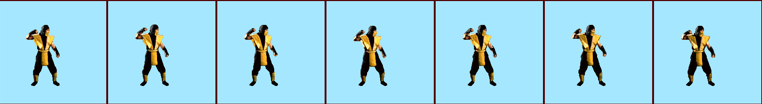
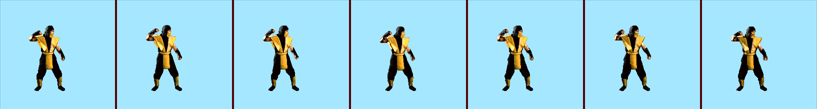
исправляю

diff --git a/js/core/Sprite.js b/js/core/Sprite.js
@@ -4,7 +4,9 @@ export class Sprite {
         frameRate = 1,
         frameWidth,
         gap = 0,
-        frameBuffer = 10
+        frameBuffer = 10,
+        chromaKey = { r: 165, g: 231, b: 255 },
+        threshold = 40,
     }) {
         this.image = new Image();
         this.image.src = imageSrc;
@@ -16,10 +18,45 @@ export class Sprite {
         this.elapsedFrames = 0;
         this.isLoaded = false;
         this.frameHeight = 0;
-
+        this.processedImage = new Image();
+        this.chromaKey = chromaKey;
+        this.threshold = threshold;
+        // Обработка изображения
         this.image.onload = () => {
-            this.isLoaded = true;
-            this.frameHeight = this.image.height;
+            const tempCanvas = document.createElement('canvas');
+            const tempCtx = tempCanvas.getContext('2d');
+            
+            tempCanvas.width = this.image.naturalWidth;
+            tempCanvas.height = this.image.naturalHeight;
+            
+            tempCtx.drawImage(this.image, 0, 0);
+            
+            if(this.chromaKey) {
+                const imageData = tempCtx.getImageData(0, 0, tempCanvas.width, tempCanvas.height);
+                const data = imageData.data;
+
+                for(let i = 0; i < data.length; i += 4) {
+                    const r = data[i];
+                    const g = data[i+1];
+                    const b = data[i+2];
+                    
+                    if(
+                        Math.abs(r - this.chromaKey.r) < this.threshold &&
+                        Math.abs(g - this.chromaKey.g) < this.threshold &&
+                        Math.abs(b - this.chromaKey.b) < this.threshold
+                    ) {
+                        data[i+3] = 0;
+                    }
+                }
+                tempCtx.putImageData(imageData, 0, 0);
+            }
+            
+            this.processedImage.onload = () => {
+                this.isLoaded = true;
+                this.frameHeight = this.processedImage.height;
+            };
+            
+            this.processedImage.src = tempCanvas.toDataURL();
         };
     }
 
@@ -32,23 +69,38 @@ export class Sprite {
         }
     }
 
-    draw(ctx, canvas) {
+    draw(ctx, x, y, flip = false) {
         if (!this.isLoaded) return;
 
         const sourceX = this.currentFrame * (this.frameWidth + this.gap);
-        const x = (canvas.width - this.frameWidth) / 2;
-        const y = (canvas.height - this.frameHeight) / 2;
-
-        ctx.drawImage(
-            this.image,
-            sourceX,
-            0,
-            this.frameWidth,
-            this.frameHeight,
-            x,
-            y,
-            this.frameWidth,
-            this.frameHeight
-        );
+        
+        ctx.save();
+        if (flip) {
+            ctx.scale(-1, 1);
+            ctx.drawImage(
+                this.processedImage,
+                sourceX,
+                0,
+                this.frameWidth,
+                this.frameHeight,
+                -x - this.frameWidth,
+                y,
+                this.frameWidth,
+                this.frameHeight
+            );
+        } else {
+            ctx.drawImage(
+                this.processedImage,
+                sourceX,
+                0,
+                this.frameWidth,
+                this.frameHeight,
+                x,
+                y,
+                this.frameWidth,
+                this.frameHeight
+            );
+        }
+        ctx.restore();
     }
 }

diff --git a/js/main.js b/js/main.js
@@ -1,25 +1,31 @@
-import { GameEngine } from './core/GameEngine.js'; // Убедитесь что путь правильный
-import { Sprite } from './core/Sprite.js';
+import { GameEngine } from './core/GameEngine.js';
+import { Fighter } from './core/Fighter.js';
 
 const gameEngine = new GameEngine();
 
-// Проверьте параметры вашего спрайта!
-const scorpionIdle = new Sprite({
+// Скорпион (справа)
+const scorpion = new Fighter({
+    position: { x: 600, y: 250 },
     imageSrc: './assets/characters/scorpion/idle.png',
     frameRate: 7,
-    frameWidth: 104, // Должно совпадать с реальными размерами
-    gap: 5,
-    frameBuffer: 10
+    frameWidth: 110,
+    gap: 7,
+    flip: true
 });
 
-// Важно: проверьте загрузку изображения
-scorpionIdle.image.onerror = () => {
-    console.error("Failed to load sprite image!");
-};
+// Саб-Зиро (слева)
+const subzero = new Fighter({
+    position: { x: 200, y: 250 },
+    imageSrc: './assets/characters/subzero/idle.png',
+    frameRate: 12,
+    frameWidth: 110, // Подберите под ваши спрайты
+    gap: 7,
+    flip: false // Зеркально отражаем
+});
 
-gameEngine.addSprite(scorpionIdle);
+gameEngine.addFighter(scorpion);
+gameEngine.addFighter(subzero);
 
-// Запуск после полной загрузки
 window.addEventListener('load', () => {
     gameEngine.start();
 });

diff --git a/js/core/GameEngine.js b/js/core/GameEngine.js
@@ -1,8 +1,8 @@
-export class GameEngine { // Добавьте ключевое слово export
+export class GameEngine {
     constructor() {
         this.canvas = document.getElementById('gameCanvas');
         this.ctx = this.canvas.getContext('2d');
-        this.sprites = [];
+        this.fighters = [];
         
         this.resizeCanvas();
         window.addEventListener('resize', () => this.resizeCanvas());
@@ -13,17 +13,17 @@ export class GameEngine { // Добавьте ключевое слово export
         this.canvas.height = window.innerHeight;
     }
 
-    addSprite(sprite) {
-        this.sprites.push(sprite);
+    addFighter(fighter) {
+        this.fighters.push(fighter);
     }
 
     start() {
         const animate = () => {
             this.ctx.clearRect(0, 0, this.canvas.width, this.canvas.height);
             
-            this.sprites.forEach(sprite => {
-                sprite.update();
-                sprite.draw(this.ctx, this.canvas);
+            this.fighters.forEach(fighter => {
+                fighter.update();
+                fighter.draw(this.ctx);
             });
             
             requestAnimationFrame(animate);

diff --git a/js/core/Fighter.js b/js/core/Fighter.js
@@ -1,0 +1,38 @@
+import { Sprite } from './Sprite.js';
+
+export class Fighter {
+    constructor({
+        position,
+        imageSrc,
+        frameRate = 1,
+        frameWidth,
+        gap = 0,
+        frameBuffer = 10,
+        chromaKey,
+        flip = false
+    }) {
+        this.position = position;
+        this.sprite = new Sprite({
+            imageSrc,
+            frameRate,
+            frameWidth,
+            gap,
+            frameBuffer,
+            chromaKey
+        });
+        this.flip = flip;
+    }
+
+    update() {
+        this.sprite.update();
+    }
+
+    draw(ctx) {
+        this.sprite.draw(
+            ctx,
+            this.position.x,
+            this.position.y,
+            this.flip
+        );
+    }
+}
